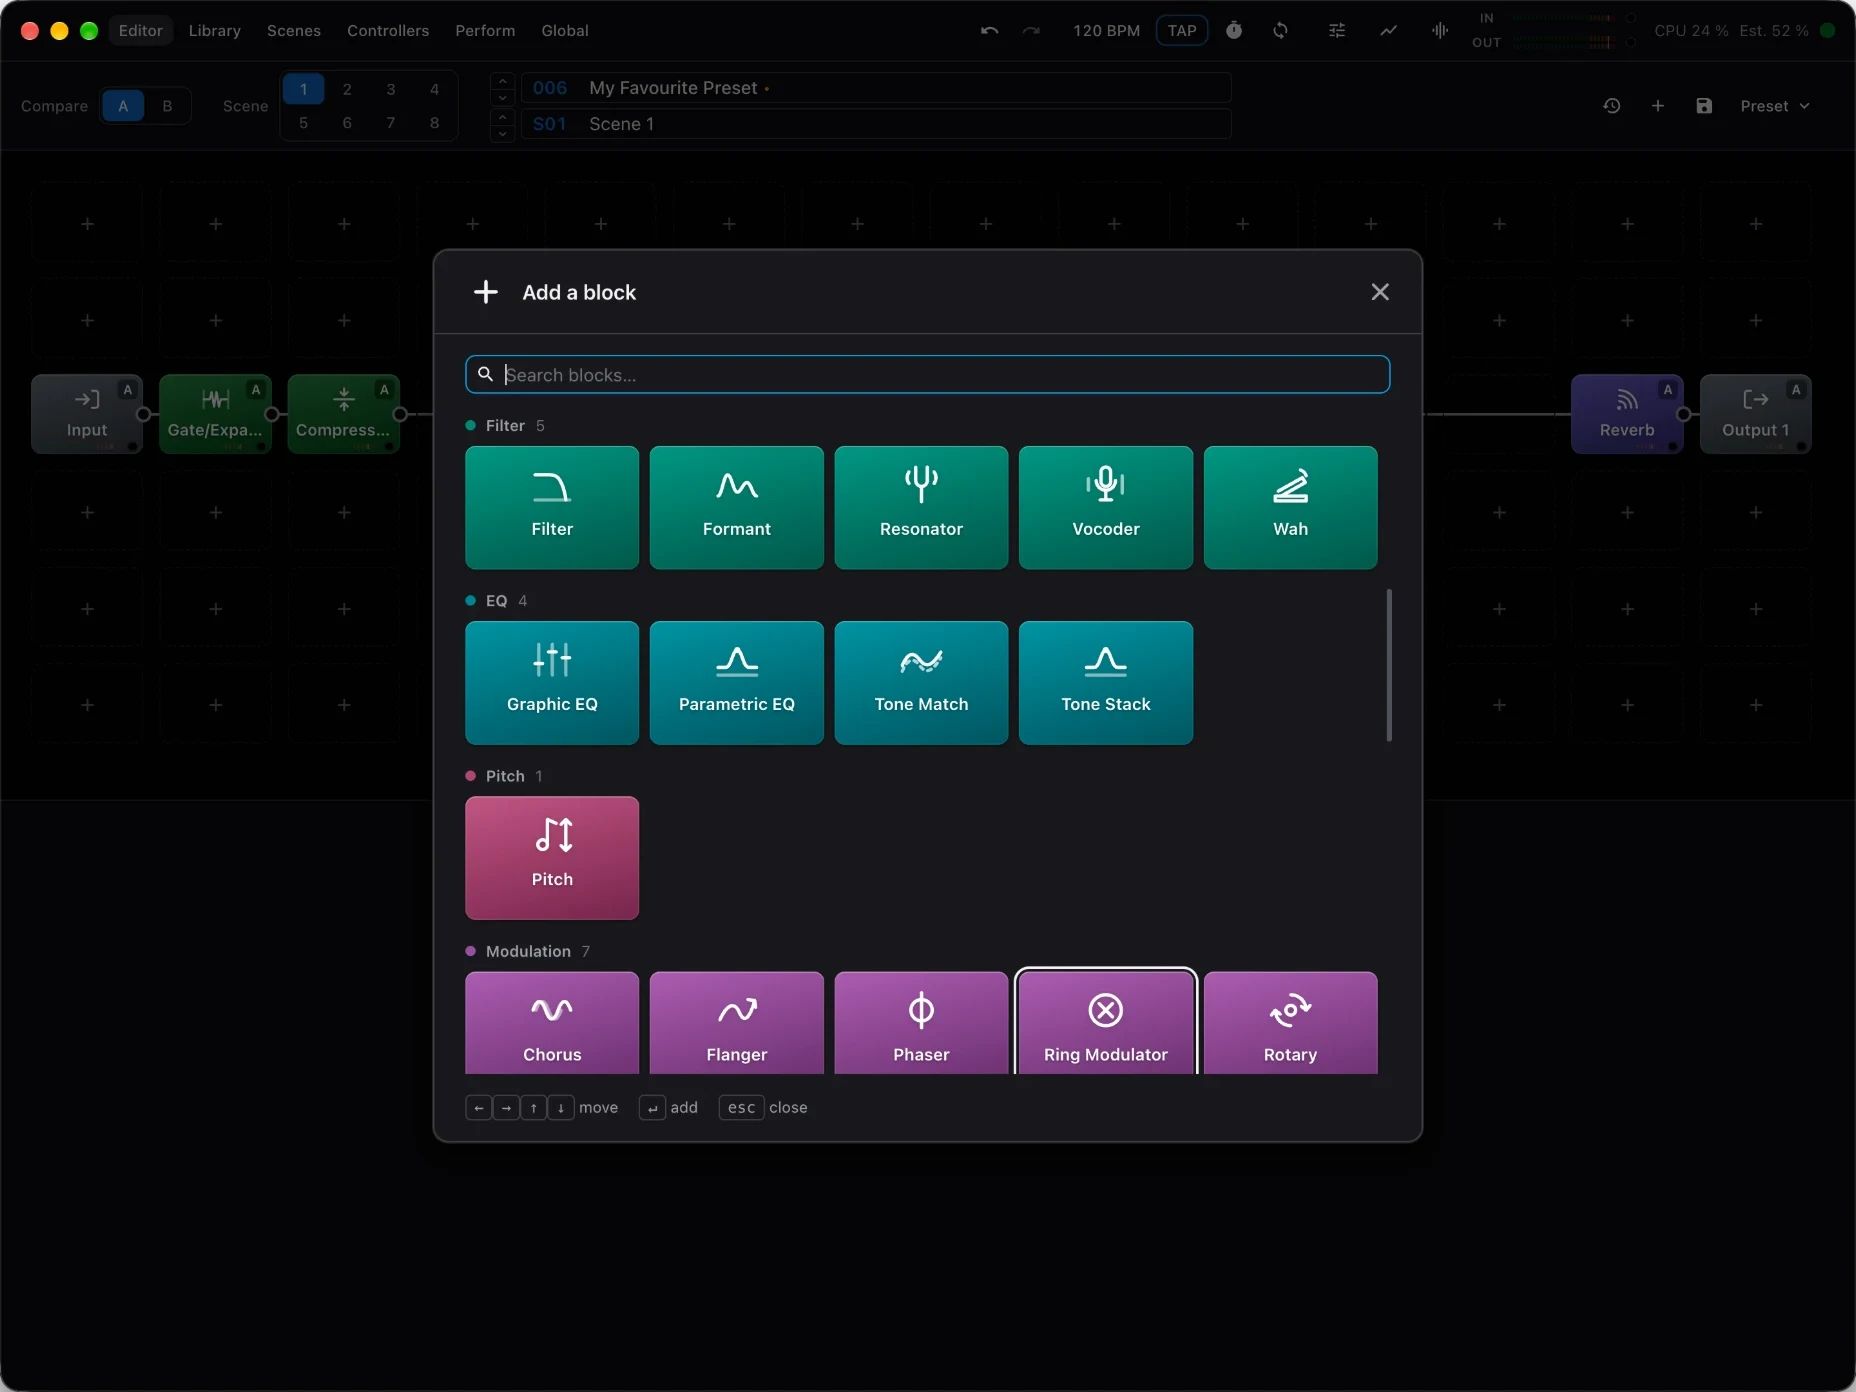
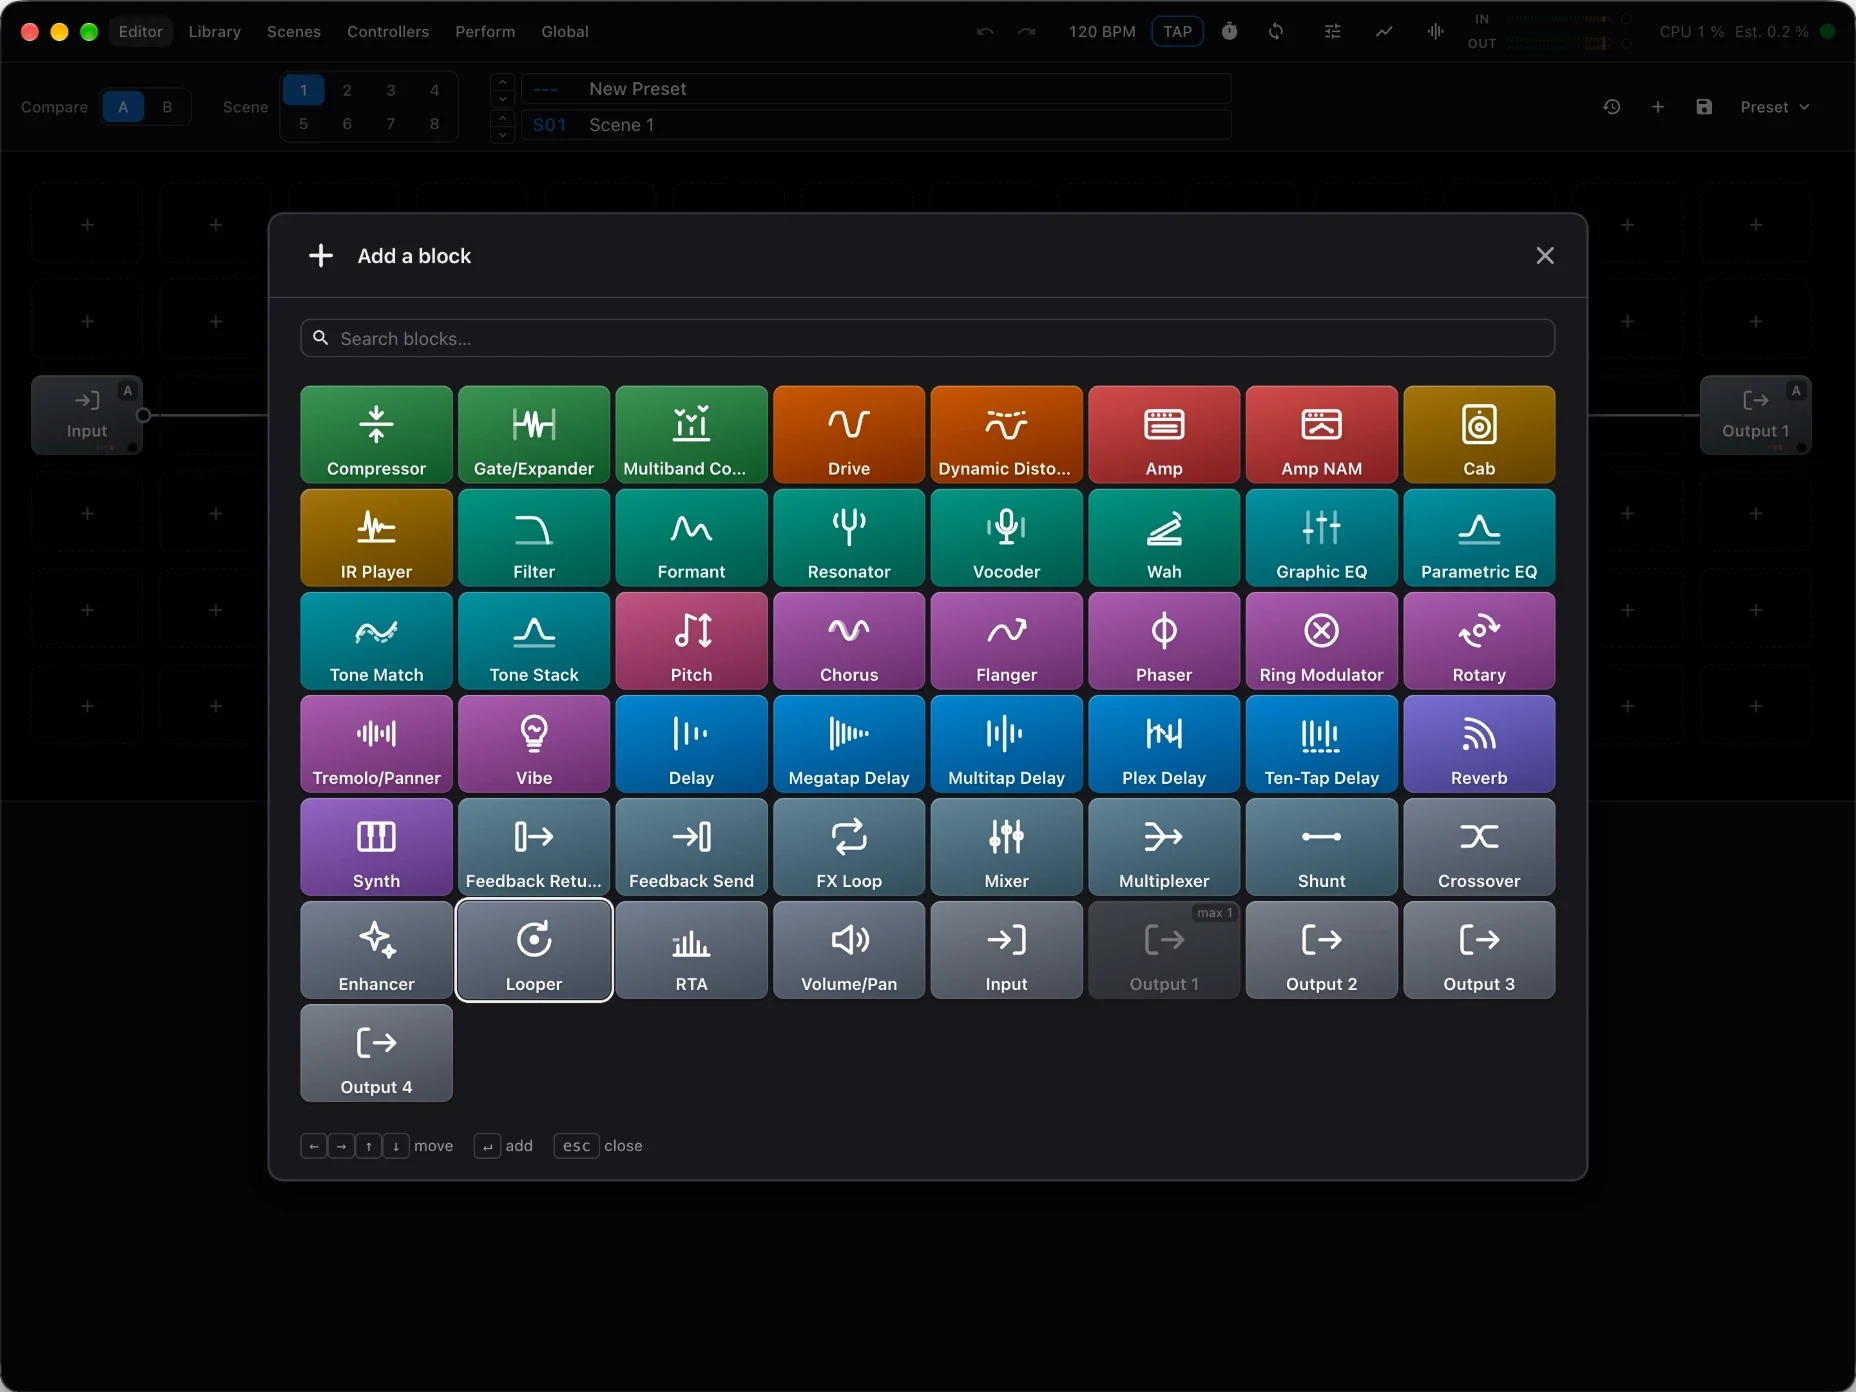
Website: the block picker screenshot shows the new single-grid picker

diff --git a/website/src/app/screenshots.ts b/website/src/app/screenshots.ts
@@ -63,7 +63,7 @@ export const SHOTS = {
     ...shot(
       'effects.webp',
       'Block picker',
-      'Adding a block: the block picker over the grid, with a search field and the block types grouped as Filter, EQ, Pitch and Modulation, each in its own colour.',
+      "Adding a block: the block picker over the grid, a search field above one grid of every block type, from Compressor, Drive, Amp and Cab through the filters, modulation, delays and Reverb to the routing blocks and the outputs, each tile in its category's colour.",
       '1856 / 1392'
     ),
     src: 'screenshots/effects.webp',
